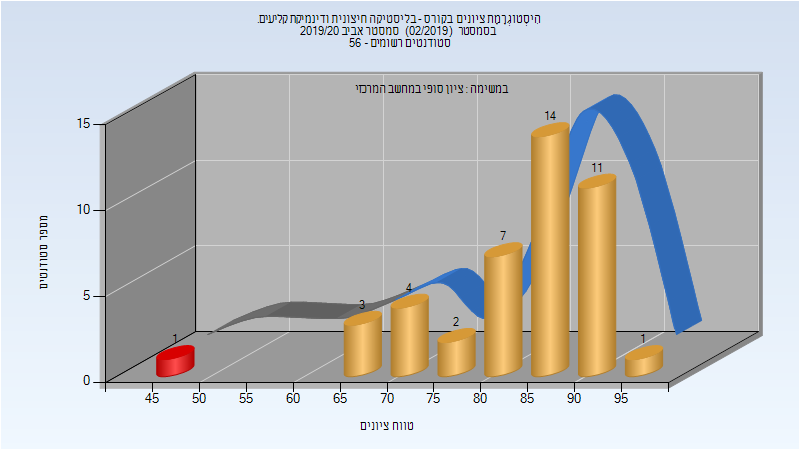
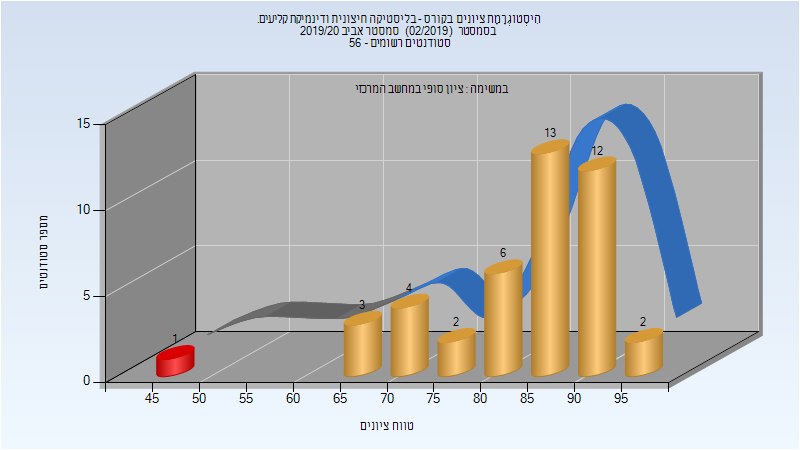
Deploy michael-maltsev/technion-histograms to github.com/michael-maltsev/technion-histograms.git:gh-pages

Changed region(s): [[0.6562, 0.1867, 0.875, 0.8089], [0.5938, 0.5289, 0.6875, 0.6222]]

diff --git a/086201/index.html b/086201/index.html
@@ -87,7 +87,7 @@
 <td>98</td>
 <td>49</td>
 <td>97</td>
-<td>83.953</td>
+<td>84.302</td>
 <td>86</td>
 </tr>
 </tbody>

diff --git a/086201/README.md b/086201/README.md
@@ -21,5 +21,5 @@
 
 | סטודנטים | עברו/נכשלו | אחוז עוברים | ציון מינימלי | ציון מקסימלי | ממוצע | חציון |
 | ---- | ---- | ---- | ---- | ---- | ---- | ---- |
-| 43 | 42/1 | 98 | 49 | 97 | 83.953 | 86 |
+| 43 | 42/1 | 98 | 49 | 97 | 84.302 | 86 |
 
